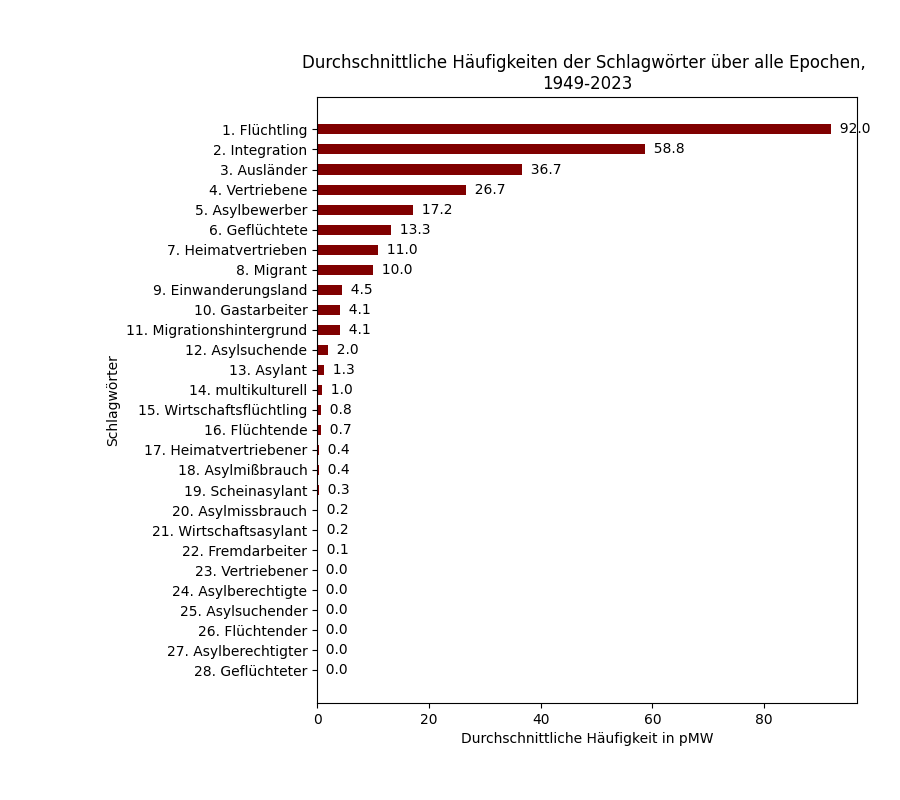
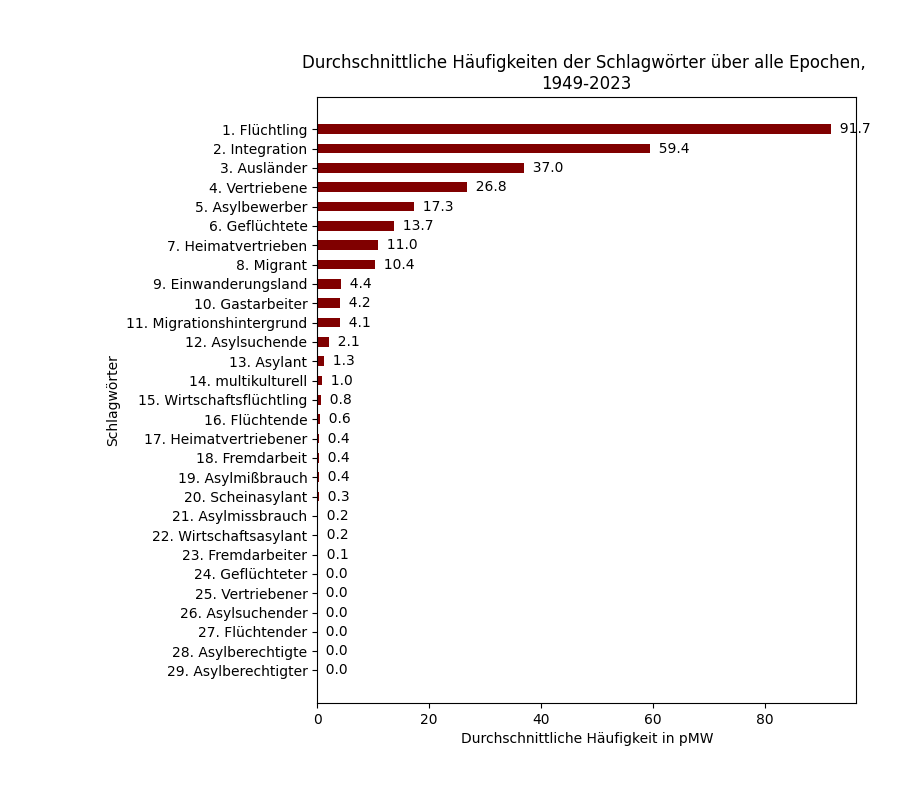
add "Fremdarbeit" and heatmaps

diff --git a/visualizations.py b/visualizations.py
@@ -77,6 +77,7 @@ def plot_frequencies(include_expected=True, relative=False, show_result_groups=T
     freqs_df = pd.read_csv('data/results/freqs.csv')
     epochs_df = pd.read_csv('data/epochs.csv')
     keywords_df = pd.read_csv('data/keywords_merged.csv')
+    # keywords_df = pd.read_csv('data/keywords2.csv')
     if include_expected:
         expected_df = pd.read_csv('data/expected_values.csv')
     # keywords = utils.load_keywords()
@@ -306,7 +307,7 @@ def plot_frequency_distribution_for_corpora_keywords():
 def plot_mean_frequencies_as_bar_plot():
     df = pd.read_csv('data/results/mean_freqs.csv')
     df = df.sort_values(by=['rank'], ascending=False)
-    words = df['word'].tolist()
+    words = df['keyword'].tolist()
     ranks = df['rank'].tolist()
     words_with_ranks = [f'{ranks[i]}. {words[i]}' for i in range(len(words))]
     freqs = df['mean_freq'].tolist()
@@ -542,6 +543,7 @@ def plot_comparing_sentiments(sentiword_set="combination", show_result_groups=Tr
             green_colors = plt.cm.Greens(np.linspace(0.2, 0.9, 4))
             senti_colors = np.concatenate([red_colors, np.array([[1.0, 1.0, 1.0, 1.0]]), green_colors])
             slice_info_df = pd.read_csv('data/results/expected_senti_results_slices.csv')
+            slice_info_df = slice_info_df[slice_info_df['sentiword_set'] == sentiword_set]
             all_exp_df = pd.read_csv('data/expected_senti_translation.csv')
             for senti_key in slice_info_df['expected_senti_key'].tolist():
                 i = slice_info_df['expected_senti_key'].tolist().index(senti_key)
@@ -607,7 +609,7 @@ def plot_words_from_time_epochs_tsne(epochs, target_word, aligned_base_folder, k
     # plot target word across all timeslices
     print("\nPlotting target word...")
     print("Target word: ", target_word)
-    target_vectors = experiment.prepare_target_vectors_for_tsne(epochs, target_word, aligned_base_folder, mode_gensim, keep_doubles)
+    target_vectors = experiment.prepare_target_vectors_for_tsne(epochs, target_word, aligned_base_folder, mode_gensim, k, keep_doubles)
     words_to_plot = list(target_vectors.keys())
     len_words = len(words_to_plot)
     if len_words > 2:
@@ -757,8 +759,7 @@ def plot_cosine_development_each_word():
             print(f"plot for {kw} saved")
 
 
-def plot_exemplary_comparisons():
-    # TODO: maybe move all experimental calculations to experiment.py
+def plot_cosine_developments_of_word_groups(show_result_groups=True):
     # retrieve keywords that should be compared
     df = pd.read_csv('data/keyword_comparing.csv')
     epochs_df = pd.read_csv('data/epochs.csv')
@@ -767,25 +768,12 @@ def plot_exemplary_comparisons():
     for index, row in df.iterrows():
         # from main word, calculate the similarity for each other word for each epoch
         main_word = row.main_word
-        # TODO: other words könnten ja auch nicht-keywords sein, die ich einfach gerne aus dem Pool des Wissens heraus testen würde!
         other_words = [row[column] for column in ['second_word', 'third_word', 'fourth_word', 'fifth_word'] if pd.notna(row[column])]
         # get necessary epochs
         kw_row = keywords_df[keywords_df['keyword'] == main_word].iloc[0]
         necessary_epochs = [item for item in range(kw_row.first_occ_epoch, kw_row.last_occ_epoch + 1) if
                             str(item) not in kw_row.loophole]
-        # initialize result variable
-        results = []
-        # doing this, also take care of cases where one of the words does not exist in epoch
-        for w in other_words:
-            results.append([])
-            for epoch in necessary_epochs:
-                word_vectors = KeyedVectors.load(f'data/models/base_models/epoch{epoch}_lemma_200d_7w_cbow.wordvectors')
-                try:
-                    val = word_vectors.similarity(main_word, w)
-                except KeyError:
-                    print(f"One of the words {main_word}, {w} does not exist in epoch {epoch}!")
-                    val = None
-                results[other_words.index(w)].append(val)
+        results = experiment.calculate_cosine_similarity_between_word_group(main_word, other_words, necessary_epochs)
         # plot as many lines as other words
         title = f'Entwicklung im Verhältnis zum Schlagwort {main_word}'
         path = f'data/results/plots/connotations/comparing_development_{main_word}_{"_".join(other_words)}_plot.png'
@@ -806,16 +794,77 @@ def plot_exemplary_comparisons():
         # plot similarities
         for i in range(0, len(other_words)):
             plt.plot(x, results[i], f'{colors[i]}-', label=other_words[i])
+            # add labels to points
+            for a, txt in enumerate(results[i]):
+                if results[i][a] is not None:
+                    plt.text(x[a], results[i][a], f'{results[i][a]:.2f}', color=colors[i], ha='center', va='bottom')
+        max_val = max([max(value for value in sublist if value is not None) for sublist in results if sublist != [None]])
+        if show_result_groups:
+            # plot blue areas to give a hint on the dimensions
+            blue_colors = plt.cm.Blues(np.linspace(0.2, 0.9, 5))
+            labels = ['wenig/gar nicht ähnlich', 'geringfügig ähnlich', 'moderat ähnlich', 'ähnlich', 'sehr ähnlich']
+            for index in range(1, 6):
+                max_slice = index * 0.2
+                min_slice = (index - 1) * 0.2 if index != 1 else -0.2
+                mean_slice = np.mean([max_slice, min_slice]) if index != 1 else 0.1
+                ax.axhspan(min_slice, max_slice, facecolor=blue_colors[index - 1], alpha=0.35)
+                # if the slice contains result points, plot its' name to the side
+                if not max_val <= min_slice:
+                    plt.text(0.1, mean_slice,
+                             labels[index - 1],
+                             color=blue_colors[index - 1], fontsize=10)
+        ax.set_ylim([-0.025, max_val + 0.025])
         # plot legend
         plt.legend()
-        # set tight layout (so that nothing is cut out)
-        plt.tight_layout()
         # save diagram
         fig = plt.gcf()
         fig.set_size_inches(10, 8)
         fig.savefig(path)
         plt.close(fig)
         print(f"plot saved")
+
+
+def plot_cosine_developments_nearest_neighbors_heatmap():
+    # retrieve keywords that should be compared
+    agg_df = pd.read_csv('data/results/aggregated_nearest_neighbors.csv')
+    df = pd.read_csv('data/results/nearest_neighbors.csv')
+    epoch_df = pd.read_csv('data/epochs.csv')
+    keywords = agg_df['Keyword'].tolist()
+    for kw in keywords:
+        # retrieve list of similar words
+        kw_df = df[df['Keyword'] == kw]
+        word_keys = [f'Word_{num}' for num in range(1, 21)]
+        all_words = agg_df[agg_df['Keyword'] == kw][word_keys].iloc[0].dropna().tolist()
+        sim_keys = [f'Similarity_{num}' for num in range(1, 11)]
+        all_similarities = []
+        epochs = []
+        for index, row in kw_df.iterrows():
+            words = row[word_keys[:10]].tolist()
+            similarities = row[sim_keys].tolist()
+            # retrieve their similarities in the different epochs. if not given, say 0
+            all_epoch_sims = [similarities[words.index(word)] if word in words else 0 for word in all_words]
+            epochs.append(row.Epoch)
+            all_similarities.append(all_epoch_sims)
+        # plot
+        heatmap_data = np.array(all_similarities).transpose()
+        plt.imshow(heatmap_data, cmap='OrRd', aspect='auto')
+        plt.colorbar(label='Cosine Similarity')
+        written_epochs = [epoch_df[epoch_df['epoch_id'] == epoch]['written_form_short'].iloc[0] for epoch in epochs]
+        # plot grid
+        for i in range(len(heatmap_data) + 1):
+            plt.axhline(i - 0.5, color='grey', linewidth=0.8)
+        for i in range(len(heatmap_data[1]) + 1):
+            plt.axvline(i - 0.5, color='grey', linewidth=0.8)
+        plt.xticks(np.arange(len(written_epochs)), written_epochs, rotation=90)
+        plt.yticks(np.arange(len(all_words)), all_words)
+        plt.xlabel("Epochen")
+        plt.ylabel("Wörter")
+        plt.title(f"Word Similarities Heatmap: {kw}")
+        plt.tight_layout()
+        fig = plt.gcf()
+        fig.savefig(f'data/results/plots/connotations/heatmaps/{kw}_heatmap.png')
+        plt.close(fig)
+        print(f"plot for kw {kw} saved")
 
 
 # words not given in corpus:

diff --git a/experiment.py b/experiment.py
@@ -26,7 +26,8 @@ def find_counts_for_keywords(count_dict):
 
 
 def save_frequency_info_in_csv():
-    utils.write_info_to_csv('data/results/freqs.csv', ['epoch', 'keyword', 'count', 'freq', 'pMW'])
+    output_file_path = 'data/results/freqs.csv'
+    utils.write_info_to_csv(output_file_path, ['epoch', 'keyword', 'count', 'freq', 'pMW'])
     for epoch in range(1, 9):
         print(f'epoch {epoch}: simplifying corpus for counting operations')
         wordlist = prepared_corpus_to_wordlist(f"data/corpus/epoch{epoch}_prepared_lemma")
@@ -39,7 +40,7 @@ def save_frequency_info_in_csv():
             freq = count/total_words
             # calculate frequency per million words
             pMW = freq * 1000000
-            utils.write_info_to_csv('data/results/freqs.csv', [epoch, kw, count, freq, pMW], 'a')
+            utils.write_info_to_csv(output_file_path, [epoch, kw, count, freq, pMW], 'a')
 
 
 def include_written_form_in_expected_csv(method):
@@ -78,7 +79,8 @@ def find_first_occurrences_for_keywords():
     keywords = df['keyword'].tolist()
     # load freqs
     df = pd.read_csv('data/results/freqs.csv')
-    utils.write_info_to_csv("data/results/kw_occurrences.csv", ['keyword', 'first_occ_epoch', 'last_occ_epoch',
+    output_file_path ="data/results/kw_occurrences.csv"
+    utils.write_info_to_csv(output_file_path, ['keyword', 'first_occ_epoch', 'last_occ_epoch',
                                                                 'loophole'])
     # for each keyword find first & last non-null freq-epoch
     for kw in keywords:
@@ -95,7 +97,7 @@ def find_first_occurrences_for_keywords():
                 loopholes.append(f'{i}')
                 print(f"WARNING: {kw} has a loophole at {i}")
         # write into csv: keyword, first_occ_epoch, last_occ_epoch, loopholes
-        utils.write_info_to_csv("data/results/kw_occurrences.csv", [kw, first_occ_epoch, last_occ_epoch,
+        utils.write_info_to_csv(output_file_path, [kw, first_occ_epoch, last_occ_epoch,
                                                                     '_'.join(loopholes) if len(loopholes) > 0 else 0], mode='a')
 
 
@@ -110,12 +112,12 @@ def create_kw_occurrences_and_merge_to_keyword_list():
 def calculate_mean_frequency_over_all_epochs():
     # prepare output
     output_file_path = 'data/results/mean_freqs.csv'
-    utils.write_info_to_csv(output_file_path, ['word', 'mean_freq', 'rank'])
+    utils.write_info_to_csv(output_file_path, ['keyword', 'mean_freq', 'rank'])
     # iterate freqs.csv
     df = pd.read_csv('data/results/freqs.csv')
-    keywords = list(set(df['word'].tolist()))
+    keywords = list(set(df['keyword'].tolist()))
     # for each kw, get pMW and mean
-    results = [{'word': kw, 'mean_freq': np.mean(np.array(df[df['word'] == kw]['pMW'].tolist())) } for kw in keywords]
+    results = [{'keyword': kw, 'mean_freq': np.mean(np.array(df[df['keyword'] == kw]['pMW'].tolist())) } for kw in keywords]
     # Get indices that would sort mean_freqs
     sorted_indices = np.argsort([results[i]['mean_freq'] for i in range(len(results))])[::-1]
     # Create a new array with ranks
@@ -123,7 +125,7 @@ def calculate_mean_frequency_over_all_epochs():
         results[idx]['rank'] = i + 1
     # save in new df/csv
     for elem in results:
-        utils.write_info_to_csv(output_file_path, [elem['word'], elem['mean_freq'], elem['rank']], mode='a')
+        utils.write_info_to_csv(output_file_path, [elem['keyword'], elem['mean_freq'], elem['rank']], mode='a')
 
 
 # adapted from https://github.com/leahannah/weat_demo/blob/main/weat.py
@@ -320,7 +322,7 @@ def save_nearest_neighbors(aligned=False):
 
 
 # TODO: maybe remove sklearn.cosine_similarity! Then scikit-learn can be left out
-def prepare_target_vectors_for_tsne(epochs, target_word, aligned_base_folder, mode_gensim=True, keep_doubles=False):
+def prepare_target_vectors_for_tsne(epochs, target_word, aligned_base_folder, mode_gensim=True, k=15, keep_doubles=False):
     target_vectors = {}
     for epoch in epochs:
         epoch_written = utils.get_epoch_written_form_short(epoch)
@@ -457,3 +459,21 @@ def calculate_cosine_development_for_each_keyword():
                 next_epoch_row = epochs_df[epochs_df['epoch_id'] == next_epoch].iloc[0]
                 epoch_range_str = f'{epoch_row.written_form_short} bis {next_epoch_row.written_form_short}'
                 utils.write_info_to_csv(output_csv_path, [kw, epoch, next_epoch, epoch_range_str, dist], mode='a')
+
+
+def calculate_cosine_similarity_between_word_group(main_word, other_words, necessary_epochs):
+    # initialize result variable
+    results = []
+    # doing this, also take care of cases where one of the words does not exist in epoch
+    for w in other_words:
+        results.append([])
+        for epoch in necessary_epochs:
+            word_vectors = KeyedVectors.load(f'data/models/base_models/epoch{epoch}_lemma_200d_7w_cbow.wordvectors')
+            try:
+                val = word_vectors.similarity(main_word, w)
+            except KeyError:
+                print(f"One of the words {main_word}, {w} does not exist in epoch {epoch}!")
+                val = None
+            results[other_words.index(w)].append(val)
+            # TODO: avoid that one list is only [None]?
+    return results

diff --git a/main.py b/main.py
@@ -29,8 +29,8 @@ if __name__ == '__main__':
     '''experiment.make_freq_slices()'''
     # plot frequencies
     '''for relative in [True, False]:
-        visualizations.plot_frequencies(relative=relative)'''
-    '''visualizations.plot_comparing_frequencies()'''
+        visualizations.plot_frequencies(relative=relative)
+    visualizations.plot_comparing_frequencies()'''
     # calculate and plot mean frequencies
     '''experiment.calculate_mean_frequency_over_all_epochs()'''
     '''visualizations.plot_mean_frequencies_as_bar_plot()'''
@@ -64,7 +64,7 @@ if __name__ == '__main__':
     # save nearest neighbors without alignment
     '''experiment.save_nearest_neighbors()'''
     # possibility to analyse some words more closely, see their context in the corpus
-    '''prepare_corpus.print_contexts_for_word_from_lemmatized_corpus('multikulturell', 4)'''
+    '''prepare_corpus.print_contexts_for_word_from_lemmatized_corpus('Gastarbeit', 3)'''
     # align models to make visualization of nearest neighbors over time
     '''embeddings.align_according_to_occurrences()'''
     # add some missing aligned model for epoch 8 for words "multikulturell" & "Migrationshintergrund".
@@ -76,7 +76,7 @@ if __name__ == '__main__':
     # save nearest neighbors from aligned models to csv
     '''experiment.save_nearest_neighbors(aligned=True)'''
     # TODO: compare nearest neighbors from plot with those from csvs
-    '''visualizations.plot_tsne_according_to_occurrences(words=['Wirtschaftsflüchtling'], k=10, perplexity=5, keep_doubles=False, iter=3000)'''
+    '''visualizations.plot_tsne_according_to_occurrences(words=['Fremdarbeit'], k=10, perplexity=5, keep_doubles=False, iter=3000)'''
     # aggregate nearest neighbors of all time in word cloud
     '''experiment.calculate_sum_nearest_neighbors()'''
     '''visualizations.plot_nearest_neighbors_as_word_clouds()'''
@@ -85,4 +85,24 @@ if __name__ == '__main__':
     # plot these distances
     '''visualizations.plot_cosine_development_each_word()'''
     # plot similarities between certain groups of words over the years
-    '''visualizations.plot_exemplary_comparisons()'''
+    '''visualizations.plot_cosine_developments_of_word_groups()'''
+    # plot development of unaligned nearest neighbors with heatmap (prerequisite: calculate sum)
+    '''visualizations.plot_cosine_developments_nearest_neighbors_heatmap()'''
+    # print nearest neighbors
+    '''word = "Fremdarbeit"
+    epoch = 3
+    df = pd.read_csv('data/results/nearest_neighbors.csv')
+    df_aligned = pd.read_csv('data/results/nearest_neighbors_aligned.csv')
+    word_keys = [f'Word_{num}' for num in range(1, 11)]
+    df_filtered = df[(df['Keyword'] == word) & (df['Epoch'] == epoch)]
+    wordlist1 = df_filtered[word_keys].iloc[0].tolist()
+    df_aligned_filtered = df_aligned[(df_aligned['Keyword'] == word) & (df_aligned['Epoch'] == epoch)]
+    try:
+        wordlist2 = df_aligned_filtered[word_keys].iloc[0].tolist()
+    except IndexError:
+        wordlist2 = []
+    merged_list = wordlist1.copy()
+    for item in wordlist2:
+        if item not in merged_list:
+            merged_list.append(item)
+    print((", ").join(merged_list))'''
